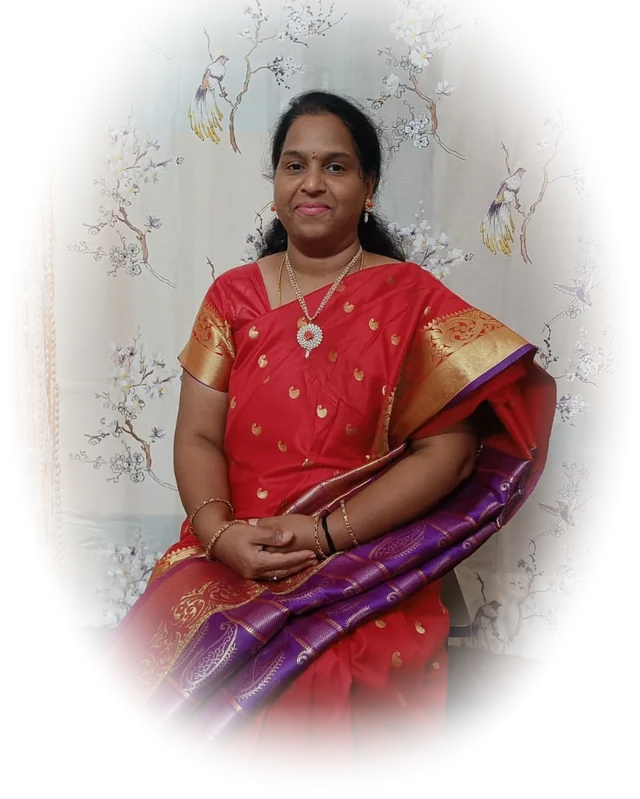
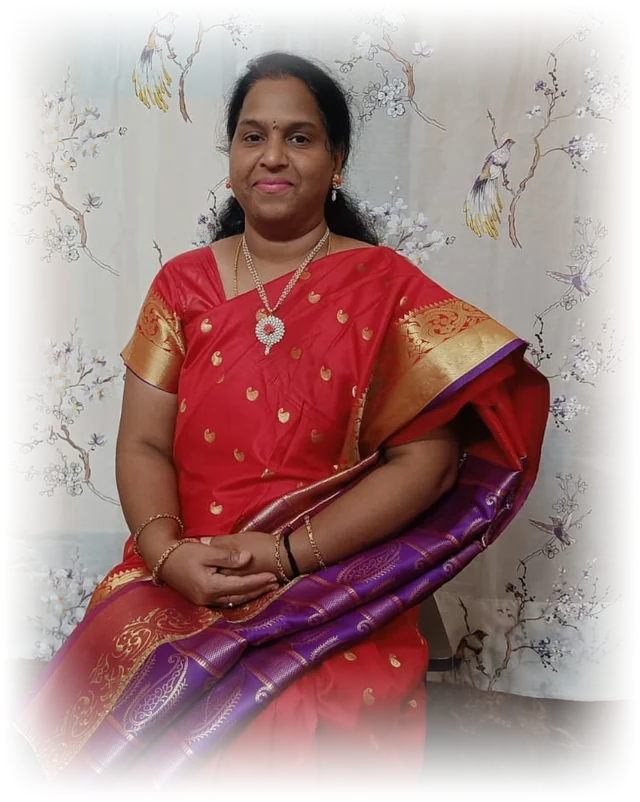
Soften portrait fade to match the hero image

diff --git a/index.html b/index.html
@@ -95,7 +95,7 @@
 <!-- ============ MANIFESTO ============ -->
 <section class="manifesto" id="manifesto">
   <figure class="manifesto-portrait reveal">
-    <img src="assets/manifesto-portrait.webp" width="640" height="799"
+    <img src="assets/manifesto-portrait.webp" width="640" height="802"
          alt="Sarojini Boga in a red silk saree" loading="lazy" decoding="async" />
   </figure>
   <div class="manifesto-copy">
